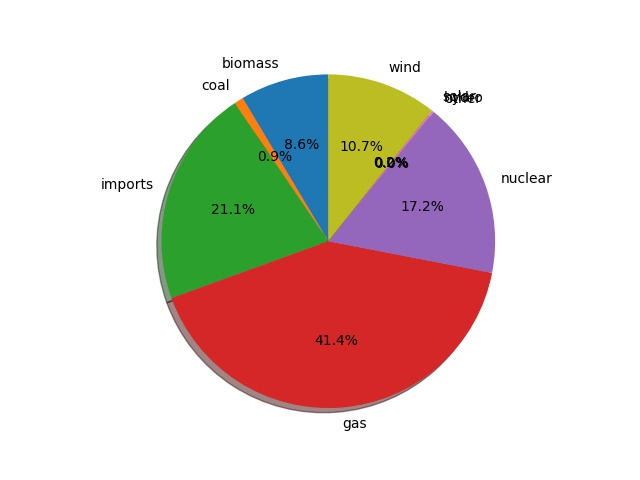
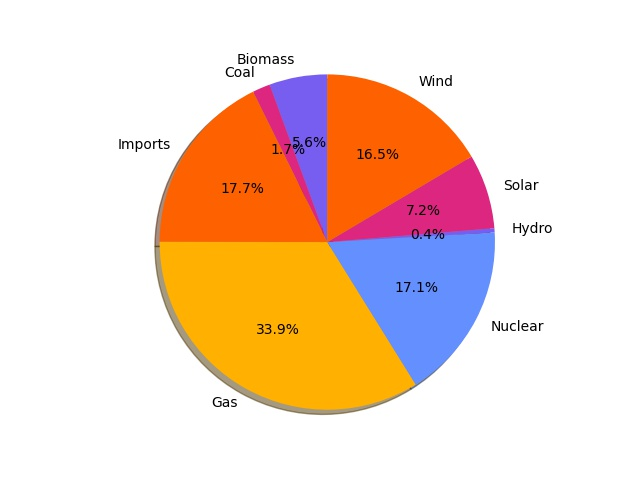
Make colours colourblind sife

diff --git a/functions/NewExample/__init__.py b/functions/NewExample/__init__.py
@@ -9,6 +9,9 @@ import azure.functions as func
 def main(req: func.HttpRequest) -> func.HttpResponse:
     logging.info('Python HTTP trigger function processed a request.')
 
+    # Colour blind colour list ( IBM colour list ) from https://davidmathlogic.com/colorblind/#%23648FFF-%23785EF0-%23DC267F-%23FE6100-%23FFB000
+    colour = np.array(["#648FFF","#785EF0","#DC267F","#FE6100","#FFB000"])
+
     # using the requests libary get the regional carbon data from https://api.carbonintensity.org.uk/regional/england/ and return as a json string
     r = requests.get('https://api.carbonintensity.org.uk/regional/england/')
     
@@ -20,17 +23,28 @@ def main(req: func.HttpRequest) -> func.HttpResponse:
     # for each mix object in mix_json append fuel to  fuels np.array and perc to  percentages np.array
     fuels = np.array([])
     percentages = np.array([])
+    colours = np.array([])
     for mix in mix_json:
         # log mix
         logging.info(mix)
-        fuels = np.append(fuels, mix['fuel'])
-        percentages = np.append(percentages, mix['perc'])
-    
+        # if perc is not 0 append fuel to  fuels np.array and perc to  percentages np.array
+        if mix['perc'] != 0:
+            # log fuel
+            logging.info(mix['fuel'])
+            fuels = np.append(fuels, mix['fuel'].title())
+            percentages = np.append(percentages, mix['perc'])
+            # log fuel index in np.array
+            logging.info(fuels.size)
+            # use fuels.size modulus divided by size of colour array to index colour array
+            colours = np.append(colours, colour[fuels.size % colour.size])
+
+        
     # use fuels and percentages to create a pie chart using the matplotlib pyplot pie library
     # export pie chart to jpg file
     # return jpg file as a response
     fig, ax = matplotlib.pyplot.subplots()
-    ax.pie(percentages, labels=fuels, autopct='%1.1f%%', shadow=True, startangle=90)
+    ax.pie(percentages, labels=fuels, autopct='%1.1f%%', shadow=True, startangle=90, colors=colours)
+    #ax.pie(percentages, labels=fuels, autopct='%1.1f%%', shadow=True, startangle=90)
     matplotlib.pyplot.axis('equal')
     matplotlib.pyplot.savefig('mypie.jpg')
     matplotlib.pyplot.close()
